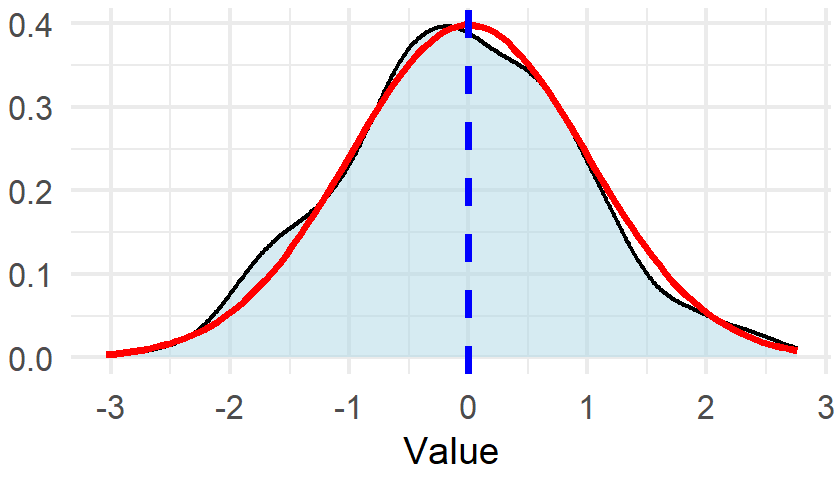
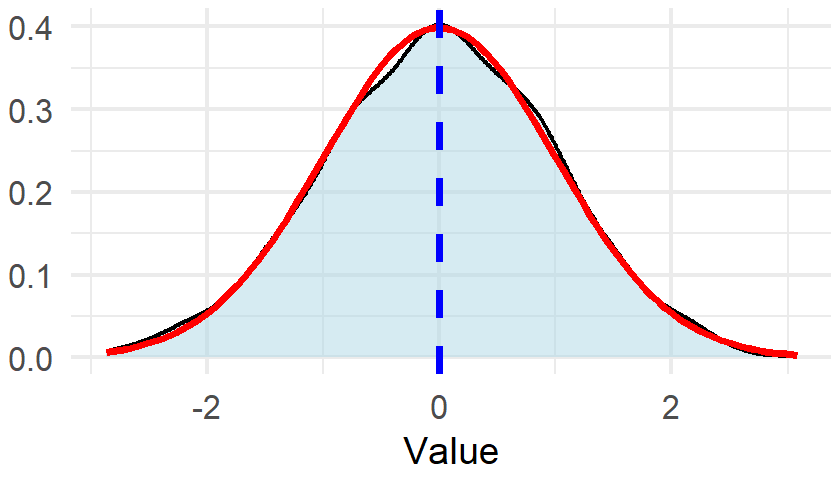
class

diff --git a/classes/Module 8 Descriptive Statistics/M4-Descriptice-Statistics-xaraingan.html b/classes/Module 8 Descriptive Statistics/M4-Descriptice-Statistics-xaraingan.html
@@ -4,7 +4,7 @@
     <title>Descriptive Statistics</title>
     <meta charset="utf-8" />
     <meta name="author" content="Pablo E. Gutiérrez-Fonseca, PhD" />
-    <script src="libs/header-attrs-2.29/header-attrs.js"></script>
+    <script src="libs/header-attrs-2.30/header-attrs.js"></script>
     <link href="libs/remark-css-0.0.1/default.css" rel="stylesheet" />
     <link href="libs/panelset-0.3.0/panelset.css" rel="stylesheet" />
     <script src="libs/panelset-0.3.0/panelset.js"></script>
@@ -22,7 +22,7 @@
     <script src="libs/xaringanExtra-clipboard-0.2.6/xaringanExtra-clipboard.js"></script>
     <script>window.xaringanExtraClipboard(null, {"button":"Copy Code","success":"Copied!","error":"Press Ctrl+C to Copy"})</script>
     <link href="libs/xaringanExtra-extra-styles-0.2.6/xaringanExtra-extra-styles.css" rel="stylesheet" />
-    <script type="application/json" id="xaringanExtra-editable-docid">{"id":"x9096eeb51754ef4a69bde72c269e445","expires":1}</script>
+    <script type="application/json" id="xaringanExtra-editable-docid">{"id":"b1436419c9814e40af1bef7045ff376e","expires":1}</script>
     <script src="libs/himalaya-1.1.0/himalaya.js"></script>
     <script src="libs/js-cookie-3.0.0/js.cookie.js"></script>
     <link href="libs/editable-0.2.6/editable.css" rel="stylesheet" />

diff --git a/classes/Module 8 Descriptive Statistics/libs/header-attrs-2.30/header-attrs.js b/classes/Module 8 Descriptive Statistics/libs/header-attrs-2.30/header-attrs.js
@@ -1,0 +1,12 @@
+// Pandoc 2.9 adds attributes on both header and div. We remove the former (to
+// be compatible with the behavior of Pandoc < 2.8).
+document.addEventListener('DOMContentLoaded', function(e) {
+  var hs = document.querySelectorAll("div.section[class*='level'] > :first-child");
+  var i, h, a;
+  for (i = 0; i < hs.length; i++) {
+    h = hs[i];
+    if (!/^h[1-6]$/i.test(h.tagName)) continue;  // it should be a header h1-h6
+    a = h.attributes;
+    while (a.length > 0) h.removeAttribute(a[0].name);
+  }
+});
